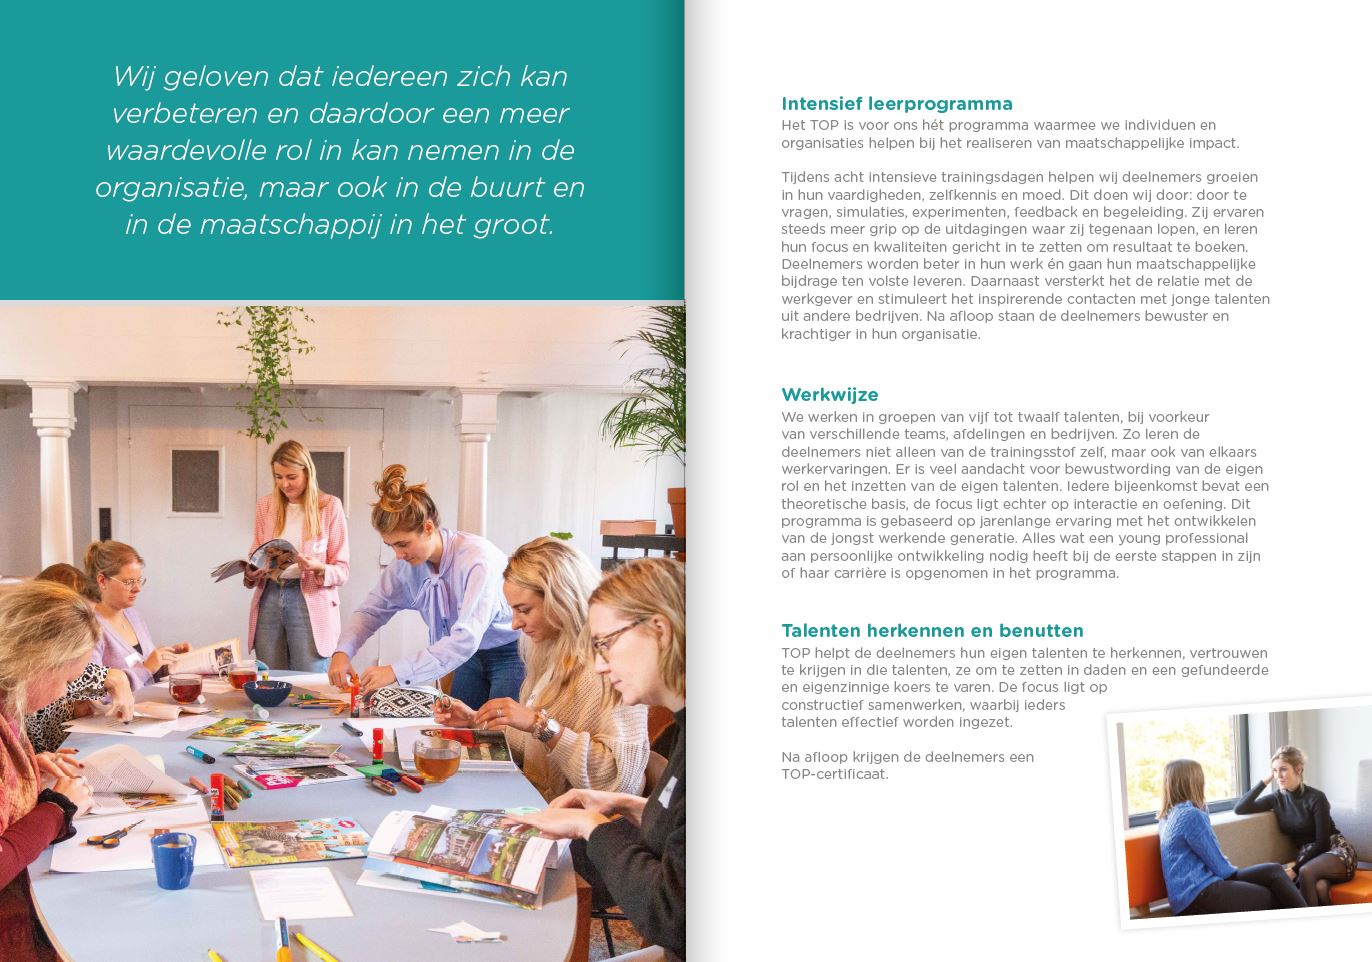
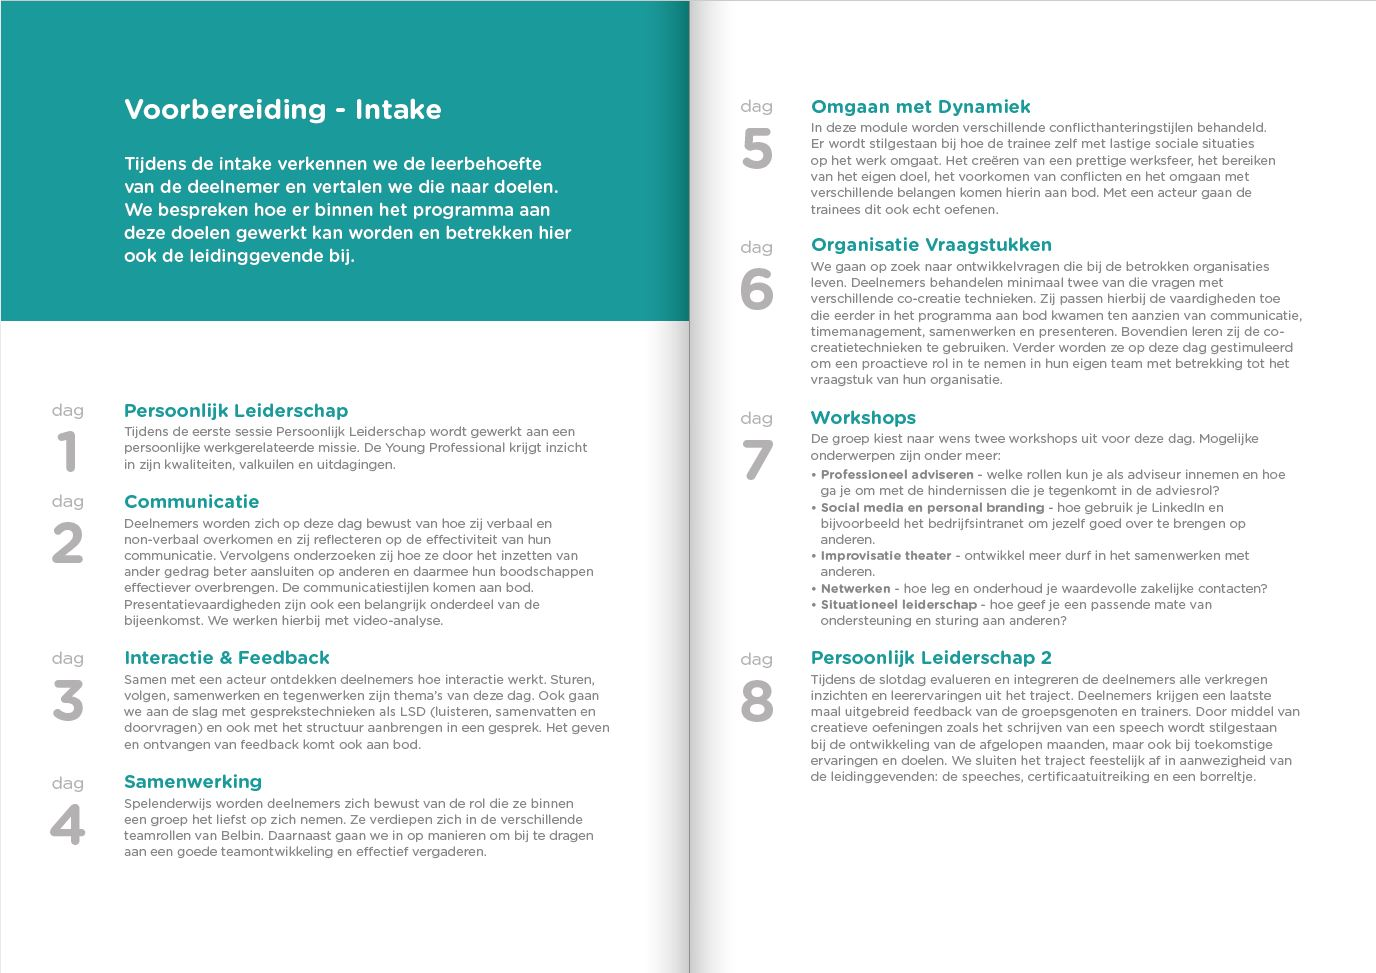
Brochure 2

diff --git a/content/trainingen/talent-ontwikkelprogramma.md b/content/trainingen/talent-ontwikkelprogramma.md
@@ -24,7 +24,7 @@ Meer informatie vind je in onze
 
 * * *
 
-Het Talent Ontwikkel Programma bestaat uit 9 volle trainingsdagen plus 8 intervisiebijeenkomsten, waarin steeds weer een nieuw thema met uitdagende werkvormen centraal staat. Hieronder zie je het overzicht staan, met het speerpunt per dag.
+Het Talent Ontwikkel Programma bestaat uit 8 volle trainingsdagen, waarin steeds weer een nieuw thema met uitdagende werkvormen centraal staat. Hieronder zie je het overzicht staan, met het speerpunt per dag. Naast de trainingsdagen bestaat het programma uit tussentijdse opdrachten, 7 intervisiebijeenkomsten en individele coaching.
 
 ![TOP inhoud](./talent-ontwikkelprogramma-3.jpg) De training kost €4100 inclusief arrangement en vrij van Btw. De groep bestaat uit 6 tot 12 deelnemers. Elk jaar in september gaan de nieuwe groepen van start. Op aanvraag zijn er ook andere startdata en maatwerk invullingen mogelijk. Hieronder vind je de reeds geplande startdata en het inschrijfformulier.
 
